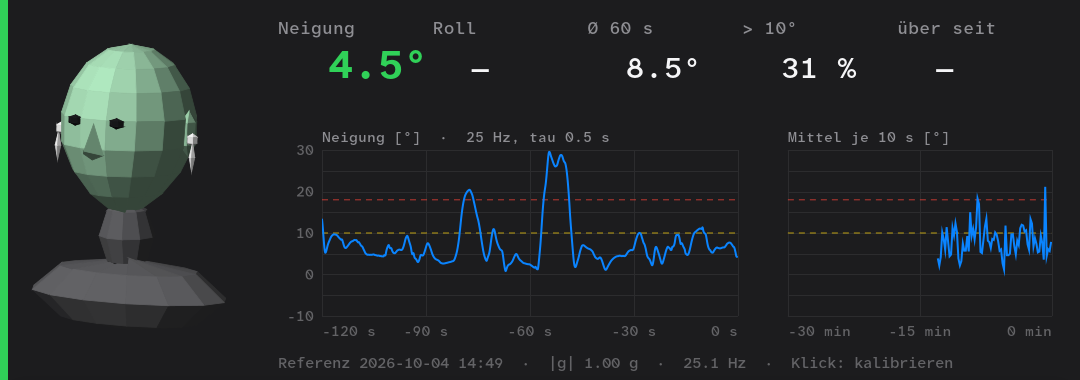
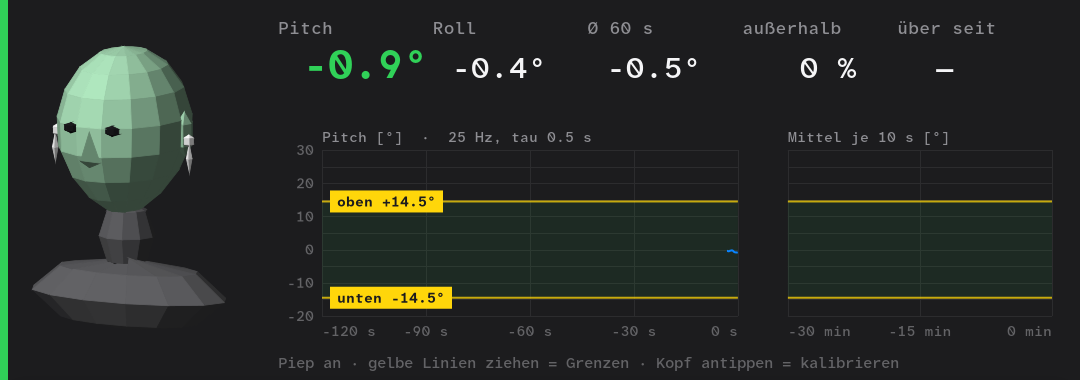
Draggable upper and lower limits in the plot, calibration on the head

diff --git a/haltung.py b/haltung.py
@@ -43,11 +43,11 @@ DEFAULTS = {
     "monitor": "DP-1",
     "height": 380,
     "position": "top",       # top | bottom of the monitor
-    "warn_deg": 10.0,        # tilt against the reference that counts as slouching
-    "bad_deg": 18.0,
-    "alert_after_s": 15,     # above warn_deg this long -> alert
+    "limit_hi": 10.0,        # pitch above this (head forward) is outside the upright band
+    "limit_lo": -8.0,        # pitch below this (head back) is outside too; both draggable in the plot
+    "alert_after_s": 15,     # outside the band this long -> alert
     "beep": True,            # parking-sensor blips, faster the further you lean forward
-    "beep_near_deg": 4.0,    # start beeping this far below warn_deg
+    "beep_near_deg": 3.0,    # start blipping this far inside a limit
     "beep_volume": 0.25,     # 0..1
     "reference": None,       # calibrated gravity unit vector (upright, looking ahead)
     "axis": None,            # ear-to-ear axis from the nod, oriented so looking down is +pitch
@@ -58,7 +58,7 @@ ACC_OFFSET = 67        # int16 x/y/z accelerometer in an 81-byte frame, 1024 = 1
 TAU = 0.5              # smoothing time constant, seconds
 SHORT_WINDOW = 120     # seconds in the left plot
 LONG_WINDOW = 1800     # seconds in the right plot, as 10 s means
-Y_MIN, Y_MAX = -10.0, 30.0   # degrees, plot range
+Y_MIN, Y_MAX = -20.0, 30.0   # degrees, plot range
 REDRAW_MS = 200
 HEAD_W = 250           # px, the 3D head on the left
 HEAD_FPS = 30          # cap while the head is moving; nothing is drawn while it rests
@@ -71,6 +71,10 @@ def load_config():
         cfg.update(json.loads(CONFIG_FILE.read_text()))
     except (OSError, ValueError):
         pass
+    # Older configs had one forward threshold.
+    if "warn_deg" in cfg:
+        cfg["limit_hi"] = cfg.pop("warn_deg")
+    cfg.pop("bad_deg", None)
     return cfg
 
 
@@ -162,7 +166,7 @@ class Posture:
             self.bucket, self.bucket_t = [], now
         self.n_total += 1
         self.sum_total += theta
-        if theta >= self.cfg["warn_deg"]:
+        if not self.cfg["limit_lo"] <= theta <= self.cfg["limit_hi"]:
             self.n_over += 1
             self.over_since = self.over_since or now
         else:
@@ -335,8 +339,8 @@ class Feed:
 
 
 class Beeper:
-    """Parking sensor: one soft blip whose rate follows the pitch, slow at the edge of
-    the zone, fast towards bad_deg. Played with pw-play, so it goes wherever the default
+    """Parking sensor: one soft blip whose rate follows how close the pitch is to a limit,
+    slow just inside it, fastest 8° beyond it. Played with pw-play, so it goes wherever the default
     output is (the AirPods, usually)."""
 
     RATE = 48000
@@ -374,10 +378,12 @@ class Beeper:
         """Seconds between blips, or None for silence."""
         if pitch is None or state not in ("ok", "warn", "alert"):
             return None
-        start = self.cfg["warn_deg"] - self.cfg["beep_near_deg"]
-        if pitch < start:
+        near = self.cfg["beep_near_deg"]
+        # Distance to the nearer limit: positive inside the band, negative outside.
+        d = min(self.cfg["limit_hi"] - pitch, pitch - self.cfg["limit_lo"])
+        if d >= near:
             return None
-        x = min(1.0, (pitch - start) / max(1.0, self.cfg["bad_deg"] - start))
+        x = min(1.0, (near - d) / (near + 8.0))
         # Geometric, so each degree feels like the same step faster.
         return self.SLOWEST * (self.FASTEST / self.SLOWEST) ** x
 
@@ -441,9 +447,22 @@ class Panel(Gtk.ApplicationWindow):
         box.append(self.area)
         self.posture.cue = lambda name: self.beeper.cue(name)
         click = Gtk.GestureClick(button=0)
-        # Left click: sit up straight and done. Right click: also relearn the head axis (nod).
+        # Tap / left click on the head: sit up straight and done. Right click: also relearn the head axis.
         click.connect("released", lambda g, *_: self.posture.start_calibration(full=g.get_current_button() == 3))
-        box.add_controller(click)
+        self.head.add_controller(click)
+
+        # The limit lines in the plots are dragged with the mouse or a finger.
+        self.plot_geo = []           # (x, y, w, h) of each plot, from the last draw
+        self.dragging = None         # "limit_hi" / "limit_lo"
+        drag = Gtk.GestureDrag()
+        drag.connect("drag-begin", self.on_drag_begin)
+        drag.connect("drag-update", self.on_drag_update)
+        drag.connect("drag-end", self.on_drag_end)
+        self.area.add_controller(drag)
+        motion = Gtk.EventControllerMotion()
+        motion.connect("motion", lambda _c, x, y: self.area.set_cursor_from_name(
+            "ns-resize" if self.limit_at(x, y) else None))
+        self.area.add_controller(motion)
         self.set_child(box)
 
         self.shown = [0.0, 0.0]      # pitch, roll the head currently displays
@@ -471,6 +490,49 @@ class Panel(Gtk.ApplicationWindow):
         self.area.queue_draw()
         self.update_head_target()
         return True
+
+    # dragging the limits
+
+    @staticmethod
+    def deg_to_y(y, h, deg):
+        return y + h - h * (min(max(deg, Y_MIN), Y_MAX) - Y_MIN) / (Y_MAX - Y_MIN)
+
+    @staticmethod
+    def y_to_deg(y, h, py):
+        return Y_MIN + (y + h - py) / h * (Y_MAX - Y_MIN)
+
+    def limit_at(self, px, py):
+        """The limit line under the pointer, if any (generous for fingers)."""
+        for x, y, w, h in self.plot_geo:
+            if x - 10 <= px <= x + w + 10 and y - 20 <= py <= y + h + 20:
+                key = min(("limit_hi", "limit_lo"), key=lambda k: abs(self.deg_to_y(y, h, self.cfg[k]) - py))
+                if abs(self.deg_to_y(y, h, self.cfg[key]) - py) <= 22:
+                    return key, (x, y, w, h)
+        return None
+
+    def on_drag_begin(self, gesture, px, py):
+        hit = self.limit_at(px, py)
+        self.dragging = hit
+        self.drag_start = (px, py)
+        if not hit:
+            gesture.set_state(Gtk.EventSequenceState.DENIED)
+
+    def on_drag_update(self, _g, dx, dy):
+        if not self.dragging:
+            return
+        key, (x, y, w, h) = self.dragging
+        deg = round(self.y_to_deg(y, h, self.drag_start[1] + dy) * 2) / 2   # 0.5° steps
+        if key == "limit_hi":
+            deg = max(self.cfg["limit_lo"] + 2, min(Y_MAX, deg))
+        else:
+            deg = min(self.cfg["limit_hi"] - 2, max(Y_MIN, deg))
+        self.cfg[key] = deg
+        self.area.queue_draw()
+
+    def on_drag_end(self, *_):
+        if self.dragging:
+            save_config(self.cfg)
+        self.dragging = None
 
     def beep_tick(self):
         try:
@@ -553,7 +615,7 @@ class Panel(Gtk.ApplicationWindow):
             ("Pitch" if cfg.get("axis") else "Neigung", (f"{pitch:+5.1f}°" if cfg.get("axis") else f"{pitch:5.1f}°") if pitch is not None else "  —  "),
             ("Roll", f"{roll:+5.1f}°" if roll is not None else "  —"),
             ("Ø 60 s", self.fmt(p.mean(60))),
-            (f"> {cfg['warn_deg']:.0f}°", f"{100 * p.n_over / p.n_total:4.0f} %" if p.n_total else "  —"),
+            ("außerhalb", f"{100 * p.n_over / p.n_total:4.0f} %" if p.n_total else "  —"),
             ("über seit", f"{time.monotonic() - p.over_since:4.0f} s" if p.over_since else "  —"),
         ]
         x = pad
@@ -571,6 +633,7 @@ class Panel(Gtk.ApplicationWindow):
             self.text(cr, pad, 114, msg, 18, C["red"] if self.state == "alert" else C["yellow"], bold=True)
 
         # plots
+        self.plot_geo = []
         top, bottom = 150, h - 64
         split = pad + (w - 2 * pad) * 0.62
         now = time.monotonic()
@@ -582,10 +645,9 @@ class Panel(Gtk.ApplicationWindow):
                   [-1800, -900, 0], lambda s: f"{s // 60:d} min", y_labels=False)
 
         # footer
-        ref = f"Referenz {cfg['calibrated_at']}" if cfg.get("calibrated_at") else "keine Referenz"
         conn = "" if self.feed.status == "verbunden" else f"  ·  {self.feed.status}"
         beep = "Piep an" if cfg["beep"] else "Piep aus"
-        foot = f"{ref} · {p.hz():4.1f} Hz{conn} · {beep} · Klick: kalibrieren (rechts: + Nicken)"
+        foot = f"{beep}{conn} · gelbe Linien ziehen = Grenzen · Kopf antippen = kalibrieren"
         self.text(cr, pad, h - 12, foot, 15, C["muted"])
 
     @staticmethod
@@ -623,7 +685,7 @@ class Panel(Gtk.ApplicationWindow):
         if self.state == "nodata":
             return "keine Daten: AirPods im Ohr und verbunden?"
         if self.state == "uncalibrated":
-            return "nicht kalibriert: aufrecht hinsetzen und aufs Panel klicken"
+            return "nicht kalibriert: aufrecht hinsetzen und den Kopf links antippen"
         if self.state == "alert":
             return "SITZ GERADE"
         if p.calib_note:
@@ -653,15 +715,30 @@ class Panel(Gtk.ApplicationWindow):
             align = "left" if i == 0 else "right" if i == len(xticks) - 1 else "center"
             self.text(cr, x + w + w * s / window, y + h + 20, xfmt(s), 14, C["muted"], align=align)
         self.text(cr, x, y - 8, title, 14, C["dark_foreground"])
-        # thresholds, dashed
-        cr.set_dash([6, 5])
-        for deg, col in ((cfg["warn_deg"], C["yellow"]), (cfg["bad_deg"], C["red"])):
-            yy = Y(deg)
-            cr.set_source_rgba(*col, 0.7)
+        # upright band between the two draggable limits
+        self.plot_geo.append((x, y, w, h))
+        hi, lo = Y(cfg["limit_hi"]), Y(cfg["limit_lo"])
+        cr.set_source_rgba(*C["green"], 0.08)
+        cr.rectangle(x, hi, w, lo - hi)
+        cr.fill()
+        for key, name, yy in (("limit_hi", "oben", hi), ("limit_lo", "unten", lo)):
+            active = self.dragging and self.dragging[0] == key
+            cr.set_source_rgba(*C["yellow"], 1.0 if active else 0.75)
+            cr.set_line_width(3 if active else 2)
             cr.move_to(x, yy)
             cr.line_to(x + w, yy)
             cr.stroke()
-        cr.set_dash([])
+            if y_labels:   # a handle with the value, so it is obvious the line can be grabbed
+                label = f"{name} {cfg[key]:+.1f}°"
+                cr.select_font_face("monospace", 0, 1)
+                cr.set_font_size(14)
+                tw = cr.text_extents(label).x_advance
+                bx, by = x + 8, yy - 11
+                cr.set_source_rgb(*C["yellow"])
+                cr.rectangle(bx, by, tw + 14, 22)
+                cr.fill()
+                self.text(cr, bx + 7, yy + 5, label, 14, C["background"], bold=True)
+        cr.set_line_width(1)
         # series
         cr.save()
         cr.rectangle(x, y, w, h)

diff --git a/README.de.md b/README.de.md
@@ -29,8 +29,8 @@ kippt, ohne Drift und ohne Kamera. Das ist der typische Zock-Buckel.
 - 🧑 **3D-Kopf**, der mit deinem nickt und kippt (flüssig während der Bewegung, im Stillstand wird nichts gezeichnet)
 - 📐 **Pitch** (vor / zurück) und **Roll** (seitlich) gegenüber deiner kalibrierten aufrechten Haltung
 - 📈 **Plots:** die letzten 2 Minuten mit 25 Hz und die letzten 30 Minuten als 10-s-Mittel, Schwellwerte gestrichelt
-- 📊 **Werte:** Mittel der letzten 60 s, Anteil der Sitzung über 10°, wie lange du schon drüber bist
-- 🔊 **Piept wie ein Einparksensor:** ein weicher Ton, langsam ab 6°, je weiter du dich vorbeugst desto schneller, am schnellsten ab 18°, beim Geraderichten wieder langsamer (`haltung --mute` schaltet es um)
+- 📊 **Werte:** Mittel der letzten 60 s, Anteil der Sitzung außerhalb des Bereichs, wie lange du schon draußen bist
+- 🔊 **Piept wie ein Einparksensor:** ein weicher Ton, langsam kurz vor einer Grenze, je weiter drüber desto schneller, beim Geraderichten wieder langsamer (`haltung --mute` schaltet es um)
 - 🟢🟡🔴 **Status:** gelb ab 10° Pitch, nach 15 s am Stück rot **SITZ GERADE**
 
 Nur Pitch zählt als krumm: Ein Blick auf den zweiten Monitor oder seitliches Kopfkippen löst nichts aus.
@@ -55,8 +55,8 @@ Entfernen mit `./uninstall.sh`.
 
 ## Kalibrieren
 
-- **Linksklick** (oder `haltung --calibrate`): gerade hinsetzen, geradeaus schauen. 5 s, fertig.
-- **Rechtsklick:** dasselbe, plus die Kopfachse neu lernen: 3 s nach **unten** schauen, dann 3 s nach **oben**.
+- **Kopf antippen / Linksklick auf den Kopf** (oder `haltung --calibrate`): gerade hinsetzen, geradeaus schauen. 5 s, fertig.
+- **Rechtsklick auf den Kopf:** dasselbe, plus die Kopfachse neu lernen: 3 s nach **unten** schauen, dann 3 s nach **oben**.
   Beim ersten Kalibrieren passiert das automatisch. Danach bleibt die Achse gespeichert, sie hängt nur davon ab, wie die AirPods sitzen.
 
 Ein großer Bildschirm mit einem Balken pro Schritt führt durch, dazu ein weicher Ton pro Schritt und zwei steigende Töne, wenn es fertig ist.
@@ -71,10 +71,10 @@ Du musst also nicht aufs Panel schauen. Aus dem Blick nach unten und oben ergibt
 | `monitor` | `DP-1` | Anschlussname des Monitors (`hyprctl monitors`) |
 | `height` | `380` | Panelhöhe in px, wird freigehalten, damit Fenster es nicht verdecken |
 | `position` | `top` | `top` oder `bottom` |
-| `warn_deg` / `bad_deg` | `10` / `18` | Pitch-Schwellwerte |
-| `alert_after_s` | `15` | Sekunden über `warn_deg` bis zum roten Alarm |
+| `limit_hi` / `limit_lo` | `10` / `-8` | aufrechter Bereich in Grad Pitch (oder die gelben Linien ziehen) |
+| `alert_after_s` | `15` | Sekunden außerhalb des Bereichs bis zum roten Alarm |
 | `beep` | `true` | Piepen wie ein Einparksensor (umschalten mit `haltung --mute`) |
-| `beep_near_deg` | `4` | so viele Grad unter `warn_deg` fängt es an (am schnellsten bei `bad_deg`) |
+| `beep_near_deg` | `3` | so viele Grad vor einer Grenze fängt es an (am schnellsten 8° dahinter) |
 | `beep_volume` | `0.25` | 0 … 1 |
 
 ## So funktioniert's

diff --git a/README.md b/README.md
@@ -29,9 +29,10 @@ with no drift and no camera. That is the classic "gaming hunch".
 - 🧑 **3D head** that nods and tilts with yours (smooth while moving, nothing drawn while it rests)
 - 📐 **Pitch** (forward / back) and **Roll** (sideways) against your calibrated upright pose
 - 📈 **Plots:** the last 2 minutes at 25 Hz and the last 30 minutes as 10 s means, with the thresholds dashed
-- 📊 **Stats:** mean of the last 60 s, share of the session above 10°, how long you have been above it
-- 🔊 **Blips like a parking sensor:** one soft sound, slow at 6°, faster the further you lean, fastest from 18°, slower again as you sit up (`haltung --mute` toggles it)
-- 🟢🟡🔴 **Status:** yellow above 10° pitch, **SITZ GERADE** in red after 15 s in a row
+- 📊 **Stats:** mean of the last 60 s, share of the session outside the band, how long you have been outside
+- 🔊 **Blips like a parking sensor:** one soft sound, slow just inside a limit, faster the further past it, slower again as you sit up (`haltung --mute` toggles it)
+- ↕ **Your own limits:** drag the yellow upper and lower line in the plot with the mouse or a finger. Between them is your upright band
+- 🟢🟡🔴 **Status:** yellow outside the band, **SITZ GERADE** in red after 15 s in a row
 
 Only pitch counts as slouching: looking at the second monitor or tilting your head sideways does not.
 
@@ -55,8 +56,8 @@ Remove it with `./uninstall.sh`.
 
 ## Calibrate
 
-- **Left click** (or `haltung --calibrate`): sit up straight, look ahead. 5 s, done.
-- **Right click:** the same, plus relearning the head axis: look **down** for 3 s, then **up** for 3 s.
+- **Tap / left click on the head** (or `haltung --calibrate`): sit up straight, look ahead. 5 s, done.
+- **Right click on the head:** the same, plus relearning the head axis: look **down** for 3 s, then **up** for 3 s.
   The first calibration does this automatically. After that the axis is kept, since it only depends on how the pods sit.
 
 A large screen with one bar per step guides you, plus a soft tone per step and two rising tones when it is done,
@@ -71,10 +72,10 @@ so you do not have to look at the panel. Looking down and up gives the ear-to-ea
 | `monitor` | `DP-1` | connector name of the monitor (`hyprctl monitors`) |
 | `height` | `380` | panel height in px, reserved so windows do not cover it |
 | `position` | `top` | `top` or `bottom` |
-| `warn_deg` / `bad_deg` | `10` / `18` | pitch thresholds |
-| `alert_after_s` | `15` | seconds above `warn_deg` before the red alert |
+| `limit_hi` / `limit_lo` | `10` / `-8` | upright band in degrees pitch (drag the yellow lines instead) |
+| `alert_after_s` | `15` | seconds outside the band before the red alert |
 | `beep` | `true` | parking-sensor beeps (toggle with `haltung --mute`) |
-| `beep_near_deg` | `4` | start blipping this many degrees below `warn_deg` (fastest at `bad_deg`) |
+| `beep_near_deg` | `3` | start blipping this many degrees inside a limit (fastest 8° beyond it) |
 | `beep_volume` | `0.25` | 0 … 1 |
 
 ## How it works
